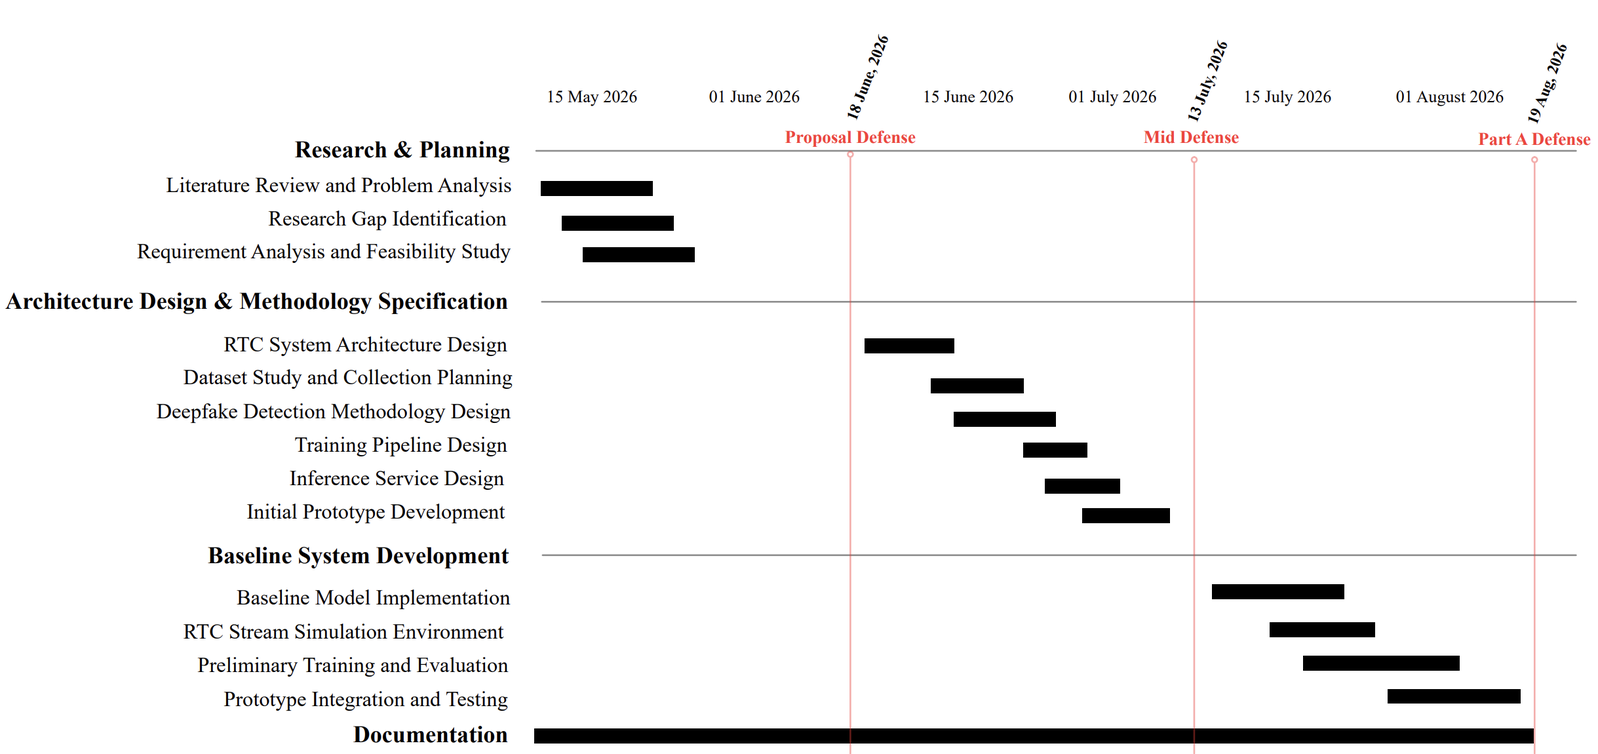
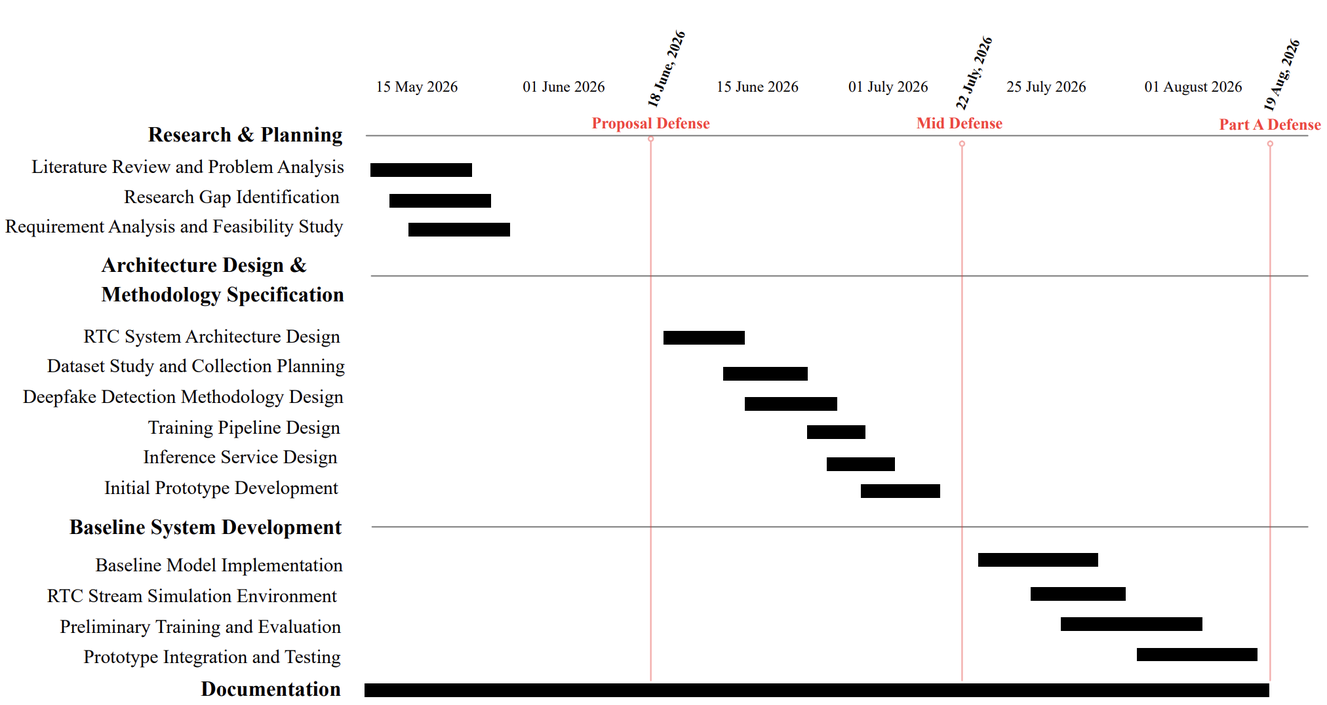
fix: results

diff --git a/progress-report/sections/implementation/deep_learning_baselines.tex b/progress-report/sections/implementation/deep_learning_baselines.tex
@@ -2,15 +2,13 @@
 
 Four detector architectures have been implemented and trained on the ASVspoof5 partitions described in Section~5.1, in order to evaluate both detection performance and the accuracy/efficiency trade-off relevant to the real-time deployment goal of this project. The four span a range of established design families in the anti-spoofing literature: an end-to-end raw-waveform residual-recurrent network, a graph-attention spectro-temporal network, a modernized time-delay architecture, and a spectrogram-domain variant of the graph-attention design.
 
-\subsubsection{Model Architectures}
+\subsubsection{Models Trained}
 
-\textbf{RawNet2} \cite{Tak2021_rawnet2} operates directly on the raw audio waveform through a SincConv front-end with a fixed-length Sinc filter kernel of 129 samples, a stack of residual blocks, and a Gated Recurrent Unit (GRU) layer for temporal modeling. It is reproduced here as an established, widely reported end-to-end baseline in the ASVspoof line of work, giving a reference point against which the remaining three architectures are compared. As an implementation detail, the SincConv filterbank is computed once at model initialization and registered as a fixed buffer, rather than recomputed on every forward pass; this is a computational efficiency change with no effect on the model's behavior or outputs.
+Four deep learning architectures were implemented and trained: \textbf{RawNet2} \cite{Tak2021_rawnet2}, \textbf{AASIST} \cite{Jung2022_aasist}, \textbf{NeXt-TDNN} \cite{Heo2024_nexttdnn}, and \textbf{Spectro-AASIST}. Their architectures, and the rationale for including each, are already described in Section~4.5.5, which also provides architecture diagrams for RawNet2, AASIST, and NeXt-TDNN; Spectro-AASIST shares AASIST's graph-attention backbone (Figure~\ref{fig:aasist_arch}) with a spectrogram front end in place of the raw-waveform encoder. This subsection covers only the implementation- and training-level detail not already covered there.
 
-\textbf{AASIST} \cite{Jung2022_aasist} is the graph-attention spectro-temporal architecture already adopted as the primary detector design (architecture diagrams for all four models appear in Section~4.5.5). Rather than being cited only as a design choice, it has been trained directly on ASVspoof5 in this phase so that its reported state-of-the-art performance can be independently verified on the project's own data pipeline before RTC-aware training is introduced. AASIST extends a RawNet2-style encoder front-end (70 Sinc filters, 6 residual blocks) with a graph attention network operating jointly over spectral and temporal graphs, replacing RawNet2's residual-and-GRU backbone as the mechanism for temporal aggregation; graph pooling retains 50\% of spectral nodes and 30\% of temporal nodes at the first graph module, rising to 50\% of temporal nodes in the subsequent module, following the original architecture. As reported in the original paper, this architecture achieves an Equal Error Rate of 0.83\% and a minimum t-DCF of 0.0275 on the ASVspoof 2019 LA evaluation set \cite{Jung2022_aasist}, which motivates its selection as the primary SOTA detector for this project; the corresponding figures on ASVspoof5 are the clean-audio baseline results reported in Section~6.4, not yet available at the time of writing.
+As an implementation detail specific to the RawNet2 and AASIST/Spectro-AASIST reproduction, the SincConv filterbank is computed once at model initialization and registered as a fixed buffer, rather than recomputed on every forward pass; this is a computational efficiency change with no effect on the model's behavior or outputs.
 
-\textbf{NeXt-TDNN} \cite{Heo2024_nexttdnn} is a modernized time-delay neural network architecture, originally proposed for speaker verification, that replaces the multi-scale Res2Net-style convolutional blocks used in prior TDNN backbones with ConvNeXt-style blocks: depthwise separable convolutions with a larger temporal receptive field, an inverted bottleneck, and updated normalization. It is repurposed here for bonafide/spoof classification by replacing the speaker-embedding output head with a two-class detection head, and is included as a lighter-weight architecture relative to RawNet2 and AASIST, providing a comparison point on the accuracy/efficiency trade-off relevant to real-time deployment.
-
-\textbf{Spectro-AASIST} adapts the AASIST \cite{Jung2022_aasist} graph-attention design to operate on spectrogram (time-frequency) input rather than the raw waveform used by the original AASIST front end. It is included to evaluate whether a spectrogram-domain front end changes detection performance or robustness relative to AASIST's raw-waveform variant, under an otherwise equivalent graph-attention backbone.
+AASIST, cited in Section~4.5.5 as the primary detector design on the strength of its reported ASVspoof 2019 LA performance (0.83\% EER, 0.0275 minimum t-DCF \cite{Jung2022_aasist}), has been trained directly on ASVspoof5 in this phase so that this reported performance can be independently verified on the project's own data pipeline before RTC-aware training is introduced; the corresponding ASVspoof5 figures are the clean-audio baseline results reported in the following section.
 
 All four models are trained on clean ASVspoof5 audio, without the RTC-aware augmentation pipeline described in Section~4.8.1 applied at this stage; integration of RTC-aware training for all four architectures is planned for the final implementation phase.
 
@@ -40,7 +38,7 @@ Spectro-AASIST  & Full utterance (variable-length) & 32 & AdamW & 100 \\
 \end{tabularx}
 \end{table}
 
-The optimizer is AdamW \cite{Loshchilov2019_adamw}, the decoupled-weight-decay variant of Adam \cite{Kingma2015_adam}, used in place of the plain Adam optimizer reported in the original RawNet2 and AASIST recipes; batch size (32) and the total training budget (100 epochs) are applied identically across all four models to keep the training budget comparable across architectures. This batch size matches the original RawNet2 recipe exactly, while the original AASIST recipe instead used a batch size of 24, reported as requiring approximately 16GB of GPU memory; both are unified to 32 in this project. Where a hyperparameter is not fixed by the values above, it is adopted from the corresponding architecture's original paper: a learning rate of $1\times10^{-4}$ with a weight decay coefficient of $1\times10^{-4}$, following the configuration reported for RawNet2 \cite{Tak2021_rawnet2} and carried over for AASIST and Spectro-AASIST \cite{Jung2022_aasist}, which additionally use a cosine-annealed learning rate schedule over the course of training, as reported in the original AASIST recipe (implemented in PyTorch~1.6.0+). NeXt-TDNN's classification head and optimizer settings otherwise follow the same learning rate and weight decay, in the absence of a spoof-detection-specific recipe in the original speaker-verification paper \cite{Heo2024_nexttdnn}. Model selection uses the checkpoint with the lowest development-set EER observed over the 100 training epochs, consistent with the model-selection discipline used for the classical baselines.
+The optimizer is AdamW \cite{Loshchilov2019_adamw}, the decoupled-weight-decay variant of Adam \cite{Kingma2015_adam}, used in place of the plain Adam optimizer reported in the original RawNet2 and AASIST recipes; batch size (32) and the total training budget (100 epochs) are applied identically across all four models to keep the training budget comparable across architectures. This batch size matches the original RawNet2 recipe exactly, while the original AASIST recipe instead used a batch size of 24, reported as requiring approximately 16GB of GPU memory; both are unified to 32 in this project. Where a hyperparameter is not fixed by the values above, it is adopted from the corresponding architecture's original paper: a learning rate of $1\times10^{-4}$ with a weight decay coefficient of $1\times10^{-4}$, following the configuration reported for RawNet2 \cite{Tak2021_rawnet2} and carried over for AASIST and Spectro-AASIST \cite{Jung2022_aasist}, which additionally use a cosine-annealed learning rate schedule over the course of training, as reported in the original AASIST recipe (implemented in PyTorch~1.6.0+). NeXt-TDNN's classification head and optimizer settings otherwise follow the same learning rate and weight decay, in the absence of a spoof-detection-specific recipe in the original speaker-verification paper \cite{Heo2024_nexttdnn}. Checkpoint selection across training epochs is described in Section~5.3.5.
 
 \subsubsection{Class-Imbalance Handling}
 
@@ -48,4 +46,6 @@ Consistent with the class imbalance already noted for the ASVspoof5 splits and a
 
 \subsubsection{Evaluation Protocol}
 
-All four models are compared and tuned exclusively on the development set, using Equal Error Rate (EER) as the primary metric, with precision, recall, F1-score, and ROC-AUC reported as supporting metrics. The evaluation set is held out throughout architecture and hyperparameter selection, and is evaluated only once, after every training decision has already been finalized on the development set, to avoid evaluation-set leakage into model selection.
+Unlike the classical baselines, which are fit once per configuration, each deep learning model is trained iteratively over 100 epochs, so an additional checkpoint-selection step is required before comparison: for each architecture, the epoch checkpoint with the lowest development-set EER is selected, rather than the final epoch's weights, and only that checkpoint is carried forward for evaluation.
+
+All four models are then compared and tuned exclusively on the development set, using Equal Error Rate (EER) as the primary metric, with precision, recall, F1-score, and ROC-AUC reported as supporting metrics. The evaluation set is held out throughout architecture, hyperparameter, and checkpoint selection, and is evaluated only once, using each architecture's selected checkpoint, after every training decision has already been finalized on the development set, to avoid evaluation-set leakage into model selection.

diff --git a/progress-report/sections/results/baseline_comparison.tex b/progress-report/sections/results/baseline_comparison.tex
@@ -1,6 +1,6 @@
 \subsection{Baseline Model Comparison}
 
-Table~\ref{tab:baseline_comparison} reports the overall comparison across baseline models. Deep learning results (RawNet2, AASIST) are pending completion of training and are reported here as \textit{TBD}, pending internal experiments; NeXt-TDNN and Spectro-AASIST reflect completed training runs on ASVspoof5. Classical ML entries reflect the selected configuration from Sections~6.1--6.3 (WavLM-large, all-layer-averaged embeddings, fixed 3.0-second duration, regularized XGBoost), evaluated on the same 20,000-utterance development subset used throughout the ablations in this section. Training and evaluation of all classical baselines on the full ASVspoof5 training partition (182,357 utterances) and the corresponding evaluation-set measurement are in progress and will be reported in the final report; evaluation-set columns are therefore marked \textit{TBD} at this stage, consistent with this project's discipline of evaluating the held-out set only once, after all model selection is finalized on the development set.
+Table~\ref{tab:baseline_comparison} reports the final comparison across all eight baseline models. Each model is trained on the full ASVspoof5 training partition (182,357 utterances) and evaluated exactly once on the held-out evaluation partition, consistent with this project's single-pass evaluation discipline; precision, recall, F1, and ROC-AUC are computed at the decision threshold calibrated on the development set. Classical ML entries use the selected WavLM-large, all-layer-averaged, fixed-3.0-second-duration configuration established in Sections~6.1--6.3. Development-set EER is now available for RawNet2 (5.87\%) but not yet for AASIST; supporting metrics (precision, recall, F1, ROC-AUC) were not captured for either model in the current training run. Evaluation-set EER, the primary comparison metric, is available for all eight models.
 
 \renewcommand{\arraystretch}{1.4}
 \setlength{\tabcolsep}{6pt}
@@ -12,24 +12,19 @@ Table~\ref{tab:baseline_comparison} reports the overall comparison across baseli
 \hline
 \textbf{Model} & \textbf{Dev EER (\%)} & \textbf{Eval EER (\%)} & \textbf{Precision} & \textbf{Recall} & \textbf{F1} & \textbf{ROC-AUC} \\
 \hline
-RawNet2 & \textit{TBD} & \textit{TBD} & \textit{TBD} & \textit{TBD} & \textit{TBD} & \textit{TBD} \\
-AASIST & \textit{TBD} & \textit{TBD} & \textit{TBD} & \textit{TBD} & \textit{TBD} & \textit{TBD} \\
-NeXt-TDNN & 7.36 & \textit{TBD} & \textit{TBD} & \textit{TBD} & \textit{TBD} & \textit{TBD} \\
-Spectro-AASIST & \textit{[FILL IN EXACT VALUE]} & \textit{TBD} & \textit{TBD} & \textit{TBD} & \textit{TBD} & \textit{TBD} \\
-XGBoost & 6.66 & \textit{TBD} & \textit{TBD} & \textit{TBD} & \textit{TBD} & \textit{TBD} \\
-Random Forest & 7.13 & \textit{TBD} & \textit{TBD} & \textit{TBD} & \textit{TBD} & \textit{TBD} \\
-SVM & 2.86 & \textit{TBD} & \textit{TBD} & \textit{TBD} & \textit{TBD} & \textit{TBD} \\
-GBM & 5.38 & \textit{TBD} & \textit{TBD} & \textit{TBD} & \textit{TBD} & \textit{TBD} \\
+RawNet2 & 5.87 & 36.04 & n/a & n/a & n/a & n/a \\
+AASIST & n/a & 29.12 & n/a & n/a & n/a & n/a \\
+NeXt-TDNN & 7.36 & \textbf{7.36} & 0.980 & \textbf{0.926} & 0.952 & n/a \\
+Spectro-AASIST & n/a & 15.09 & 0.597 & 0.849 & 0.701 & n/a \\
+XGBoost & 6.28 & 13.20 & \textbf{0.998} & 0.734 & 0.846 & \textbf{0.985} \\
+Random Forest & 6.46 & 12.85 & 0.985 & 0.922 & \textbf{0.953} & 0.984 \\
+SVM & \textbf{3.75} & 7.69 & 0.99 & 0.83 & 0.90 & 0.98 \\
+GBM & 4.66 & 9.55 & 0.98 & 0.87 & 0.92 & 0.97 \\
 \hline
 \end{tabularx}
+\vspace{2pt}
 \end{table}
 
-Among models evaluated to date, SVM achieves the lowest development-set EER (2.86\%), followed by GBM (5.38\%), XGBoost (6.66\%), and Random Forest (7.13\%). Precision, recall, F1-score, and ROC-AUC will be reported once the corresponding decision thresholds have been calibrated on the full training partition; supporting metrics for the current 20,000-utterance subset are available internally and will be incorporated alongside the full-dataset figures for consistency. NeXt-TDNN's reported development EER (7.36\%) falls within the range of the classical baselines, ahead of Random Forest but behind SVM, GBM, and XGBoost on the same metric, though the two are not yet evaluated under identical data conditions and this comparison should be treated as preliminary.
+Ranked by evaluation-set EER, the primary comparison metric, NeXt-TDNN (7.36\%) and SVM (7.69\%) are the strongest baselines, followed by GBM (9.55\%), Random Forest (12.85\%), XGBoost (13.20\%), and Spectro-AASIST (15.09\%); RawNet2 (36.04\%) and AASIST (29.12\%) trail well behind the rest. This is a notable result: AASIST and RawNet2 are widely reported to achieve sub-1\% EER on the ASVspoof 2019 LA benchmark, yet substantially underperform both the classical baselines and the lighter-weight NeXt-TDNN on ASVspoof5 in this project's current training run. Since both models use the same full-utterance training configuration described in Section~5.3, this gap is flagged as a priority to investigate before the final report rather than resolved into a definitive explanation here. RawNet2's newly captured development-set EER (5.87\%) is competitive with the classical baselines (comparable to XGBoost's 6.28\% and Random Forest's 6.46\%), which sharpens rather than resolves the question: under-training would be expected to produce a poor development-set score as well, so RawNet2's good development-set performance alongside its poor evaluation-set performance points instead toward a generalization gap between the attack types seen during training and development and the 16 wholly unseen attack algorithms introduced only in the evaluation partition (Section~5.1). Whether the same explanation extends to AASIST cannot yet be confirmed, since its development-set EER has not been captured.
 
-% TODO: insert grouped bar chart comparing dev EER across all baseline models
-% \begin{figure}[H]
-% \centering
-% \includegraphics[width=0.8\textwidth]{figures/baseline_comparison_eer.png}
-% \caption{Development-set EER across all baseline models.}
-% \label{fig:baseline_comparison}
-% \end{figure}
+Among the classical baselines, Random Forest offers the most balanced operating point (98.5\% precision, 92.2\% recall, F1 0.953), while XGBoost's near-perfect precision (0.998) comes at the cost of substantially lower recall (0.734), indicating that it rejects almost no genuine bonafide speech but also misses more spoofed utterances. Spectro-AASIST shows the opposite pattern among the deep models with supporting metrics available: low precision (0.597) with moderate recall (0.849), suggesting it over-flags bonafide speech as spoofed, consistent with its higher EER relative to the classical baselines.

diff --git a/progress-report/sections/results/discussion.tex b/progress-report/sections/results/discussion.tex
@@ -6,6 +6,6 @@ The WavLM configuration and duration ablations together account for the largest 
 
 The XGBoost regularization comparison confirms that an unregularized configuration substantially overfits the training partition, and that shallower trees with explicit L1/L2 penalties narrow the train--development gap considerably, though the comparison reported here is confounded with a concurrent feature and duration change and should be treated as directional rather than isolated evidence of the regularization effect alone.
 
-Among models evaluated to date (Section~6.4), SVM achieves the lowest development-set EER, ahead of GBM, XGBoost, and Random Forest, all trained on the same selected feature and duration configuration. This ranking is based on a 20,000-utterance development subset rather than the full training and evaluation partitions, and should be read as a preliminary ordering pending the full-dataset training run and the single evaluation-set measurement planned for the final report. Results for RawNet2 and AASIST are not yet available and are reported as pending; their inclusion, alongside NeXt-TDNN and Spectro-AASIST, will allow the accuracy/efficiency trade-off motivating the inclusion of classical baselines to be assessed directly once all eight models are evaluated under identical data conditions.
+With all eight baselines now trained on the full ASVspoof5 training partition and evaluated exactly once on the held-out evaluation partition (Section~6.4), the accuracy/efficiency trade-off motivating the inclusion of classical baselines can be assessed directly. The ranking by evaluation-set EER does not split cleanly along the deep-learning/classical-ML line motivating that comparison: NeXt-TDNN and SVM lead, followed by GBM, Random Forest, and XGBoost, with Spectro-AASIST, AASIST, and RawNet2 trailing. Notably, the two graph-attention and residual-recurrent architectures selected specifically for their reported state-of-the-art performance on ASVspoof benchmarks (AASIST and RawNet2) are, at present, the weakest baselines on ASVspoof5, well behind every classical model. Since this contradicts their reported literature performance by a wide margin, it is treated as an open implementation question rather than as evidence that the architectures themselves are unsuitable. For RawNet2, a newly captured development-set EER of 5.87\% (comparable to the classical baselines) makes under-training an unlikely explanation and points instead toward a generalization gap between the attack types seen during training and development and the 16 unseen attack algorithms introduced only in the evaluation partition (Section~5.1); whether the same explanation extends to AASIST, whose development-set EER has not yet been captured, remains open. Resolving both is a priority before the final report.
 
 All results in this section were obtained on clean ASVspoof5 audio. No conclusions regarding RTC deployment readiness are drawn from these figures; RTC-induced degradation (the project's second objective) is measurable only once the RTC-aware augmentation pipeline is integrated into training and evaluation for the final report.

diff --git a/progress-report/sections/results/feature_ablation.tex b/progress-report/sections/results/feature_ablation.tex
@@ -16,14 +16,14 @@ Table~\ref{tab:feature_source_ablation} compares handcrafted acoustic features, 
 \hline
 Handcrafted-only & 44.80 & 32.25 & 33.96 & 30.82 \\
 WavLM-only & 20.88 & 26.41 & 19.08 & 21.12 \\
-Concatenated (handcrafted + WavLM) & 26.54 & 23.28 & 22.58 & --- \\
+Concatenated (handcrafted + WavLM) & 26.54 & 23.28 & 22.58 & 23.56 \\
 \hline
 \end{tabularx}
 \end{table}
 
-Handcrafted acoustic features were the weakest representation across every model, by a wide margin. Concatenation with WavLM embeddings improved performance for Random Forest alone; for XGBoost and SVM, concatenation performed worse than WavLM embeddings used in isolation, suggesting that the lower-dimensional handcrafted block introduced noise that these models did not discount as effectively as Random Forest's per-tree feature subsampling. GBM concatenation was not evaluated, as the WavLM-only result already established the direction of the finding for the remaining three models.
+Handcrafted acoustic features were the weakest representation across every model, by a wide margin. Concatenation with WavLM embeddings improved performance for Random Forest alone; for XGBoost, GBM and SVM, concatenation performed worse than WavLM embeddings used in isolation, suggesting that the lower-dimensional handcrafted block introduced noise that these models did not discount as effectively as Random Forest's per-tree feature subsampling.
 
-Table~\ref{tab:wavlm_config_ablation} compares three of the four candidate WavLM configurations (base vs.\ large checkpoint; last-layer vs.\ all-layer-averaged pooling), using the WavLM-only feature source established above. The base-checkpoint, all-layer-averaged configuration was not evaluated, as the large-checkpoint results below were already sufficient to motivate the final selection.
+Table~\ref{tab:wavlm_config_ablation} compares three of the four candidate WavLM configurations (base vs.\ large checkpoint; last-layer vs.\ all-layer-averaged pooling), using the WavLM-only feature source established above. The base-checkpoint, all-layer-averaged configuration was not evaluated, as the large-checkpoint results below were already sufficient to choose the final selection.
 
 \begin{table}[H]
 \centering

diff --git a/progress-report/sections/results/duration_ablation.tex b/progress-report/sections/results/duration_ablation.tex
@@ -19,7 +19,7 @@ Fixed 3.0s (selected) & 6.66 & 7.13 & 2.86 & 5.38 \\
 \end{tabularx}
 \end{table}
 
-The fixed 3.0-second configuration outperformed both alternatives across all four models, improving EER by 4--6 points over the random 1.0--3.0s range and by 8--10 points over the fixed 1.0-second configuration. This indicates that providing a consistent, longer analysis window benefits classical feature extraction more than exposing the model to duration diversity matching the anticipated 1--3 second inference range; short single-second windows appear to omit spectro-temporal structure relevant to spoof detection. The fixed 3.0-second configuration was adopted for all subsequent classical-baseline results reported in this section. A stratified check of the actual duration distribution in the evaluation partition, and its implications for utterances shorter than 3.0 seconds at inference time, is deferred to the final report.
+The fixed 3.0-second configuration outperformed both alternatives across all four models, improving EER by 4--6 points over the random 1.0--3.0s range and by 8--10 points over the fixed 1.0-second configuration. This indicates that providing a consistent, longer analysis window benefits classical feature extraction more than exposing the model to duration diversity matching the anticipated 1--3 second inference range; short single-second windows appear to omit spectro-temporal structure relevant to spoof detection. The fixed 3.0-second configuration was adopted for all subsequent classical-baseline results reported in this section.
 
 % TODO: insert line/bar chart of EER vs. duration configuration, by model
 % \begin{figure}[H]

diff --git a/progress-report/sections/results/regularization.tex b/progress-report/sections/results/regularization.tex
@@ -18,4 +18,4 @@ Final (shallow, L1/L2-regularized, selected) & 0.10 & 6.66 & 6.56 \\
 \end{tabularx}
 \end{table}
 
-The initial configuration showed near-zero training EER alongside substantially higher development EER, a signature of memorization rather than generalizable spoof-detection behavior. The regularized configuration reduced this gap by more than a factor of three. This comparison was conducted concurrently with the WavLM and duration configuration changes reported in Sections~6.1--6.2; the reduction in development EER shown here therefore reflects the combined effect of hyperparameter regularization together with the improved feature representation and duration configuration, rather than regularization in isolation. An isolated regularization-only comparison, holding features and duration fixed at their final selected configuration, is planned for the final report. The regularized configuration was used for all XGBoost results reported in Section~6.4.
+The initial configuration showed near-zero training EER alongside substantially higher development EER, a signature of memorization rather than generalizable spoof-detection behavior. The regularized configuration reduced this gap by more than a factor of three. This comparison was conducted concurrently with the WavLM and duration configuration changes reported in Sections~6.1--6.2; the reduction in development EER shown here therefore reflects the combined effect of hyperparameter regularization together with the improved feature representation and duration configuration, rather than regularization in isolation.

diff --git a/progress-report/sections/results/index.tex b/progress-report/sections/results/index.tex
@@ -3,7 +3,7 @@
 
 This section reports the results of the baseline implementation described in the Implementation chapter, obtained under the clean-audio evaluation protocols defined for the classical and deep learning baselines: all ablation results are computed on the ASVspoof5 development partition, and the evaluation partition is reported exactly once, in the final baseline comparison (Section~6.4), consistent with the train/development/evaluation discipline followed throughout. Results involving RTC-induced distortion (codec compression, packet loss, receiver-side enhancement) are outside the scope of this progress report and are deferred to the final report, once the RTC-aware augmentation pipeline is integrated.
 
-The subsections below mirror the ablation structure introduced for the classical baselines: feature representation, duration matching, and the XGBoost regularization sweep, followed by the overall comparison across all eight baseline models. Numeric entries marked \textit{TBD} correspond to evaluation runs that are complete in pipeline but not yet finalized at the time of writing; they will be populated with measured values before submission of the final report.
+The subsections below mirror the ablation structure introduced for the classical baselines: feature representation, duration matching, and the XGBoost regularization sweep, followed by the overall comparison across all eight baseline models.
 
 \input{sections/results/feature_ablation}
 \input{sections/results/duration_ablation}

diff --git a/progress-report/sections/remaining_tasks/index.tex b/progress-report/sections/remaining_tasks/index.tex
@@ -17,8 +17,8 @@ Table~\ref{tab:impl_status} lists the work remaining after this progress report,
 \endhead
 \hline
 \endfoot
-Baseline results and ablation analysis (Section~6) &
-Complete RawNet2 and AASIST training and evaluation on the full ASVspoof5 training partition, then populate the \textit{TBD} entries in the comparison table (Section~6.4) with measured metrics. \\
+Investigate the RawNet2/AASIST evaluation-set EER gap and capture their missing metrics (Section~6.4) &
+RawNet2's development-set EER (5.87\%) is now captured and is competitive with the classical baselines, yet its evaluation-set EER (36.04\%) remains far higher, pointing toward a generalization gap to the unseen attack types in the evaluation partition rather than under-training; its precision, recall, F1, and ROC-AUC are still missing. AASIST's evaluation-set EER (29.12\%) is known, but its development-set EER and full supporting metrics have not yet been captured at all. Confirm the generalization-gap hypothesis for RawNet2, diagnose AASIST from scratch, and capture all missing metrics for both. \\
 RTC-aware distortion pipeline: codec round-trip, packet-loss simulation, post-processing (Section~4.8.1) &
 Implement the codec round-trip (Opus, G.711, AAC via \texttt{ffmpeg}), the Gilbert--Elliott bursty packet-loss simulator, and the AGC/high-pass post-processing stage, gated by a clean-sample probability during training. \\
 RTC transmission pipeline integration: sender, network, receiver subsystems (Sections~4.1--4.4) &

diff --git a/progress-report/sections/methodology/network_transmission.tex b/progress-report/sections/methodology/network_transmission.tex
@@ -77,7 +77,7 @@ Major consequences include:
 \item Irregular playback due to high jitter
 \end{itemize}
 
-To maintain acceptable voie quality, real-time communication systems must be designed to tolerate these impairments through techniques such as adaptive encoding, buffering, packet sequencing, and error concealment.
+To maintain acceptable voice quality, real-time communication systems must be designed to tolerate these impairments through techniques such as adaptive encoding, buffering, packet sequencing, and error concealment.
 
 The overall transformation from transmitted speech to received speech can be represented as
 \begin{equation}

diff --git a/progress-report/sections/methodology/proposed_module.tex b/progress-report/sections/methodology/proposed_module.tex
@@ -59,7 +59,7 @@ Typical preprocessing operations include:
     \item fixed-length padding for short segments.
 \end{itemize}
 
-Pre-emphasis is critical because RTC codecs often supress high frequencies yet these bands often contain the subtle spectral cues left by synthetic vocoders. 
+Pre-emphasis is critical because RTC codecs often suppress high frequencies yet these bands often contain the subtle spectral cues left by synthetic vocoders. 
 
 The result is a standardized audio segment suitable for feature extraction:
 \begin{equation}

diff --git a/progress-report/sections/methodology/sender_side.tex b/progress-report/sections/methodology/sender_side.tex
@@ -25,7 +25,7 @@ Here, the signal remains in a near-natural form but may already include environm
 
 The processed audio stream is divided into small fixed duration frames, typically ranging from 10ms to 20ms. Framing allows the system to process and transmit audio incrementally rather than waiting for larger audio segments. 
 
-Each frame serves as an independent unit for encoding and network.
+Each frame serves as an independent unit for encoding and network transmission.
 
 \subsubsection{Encoding and Compression}
 
